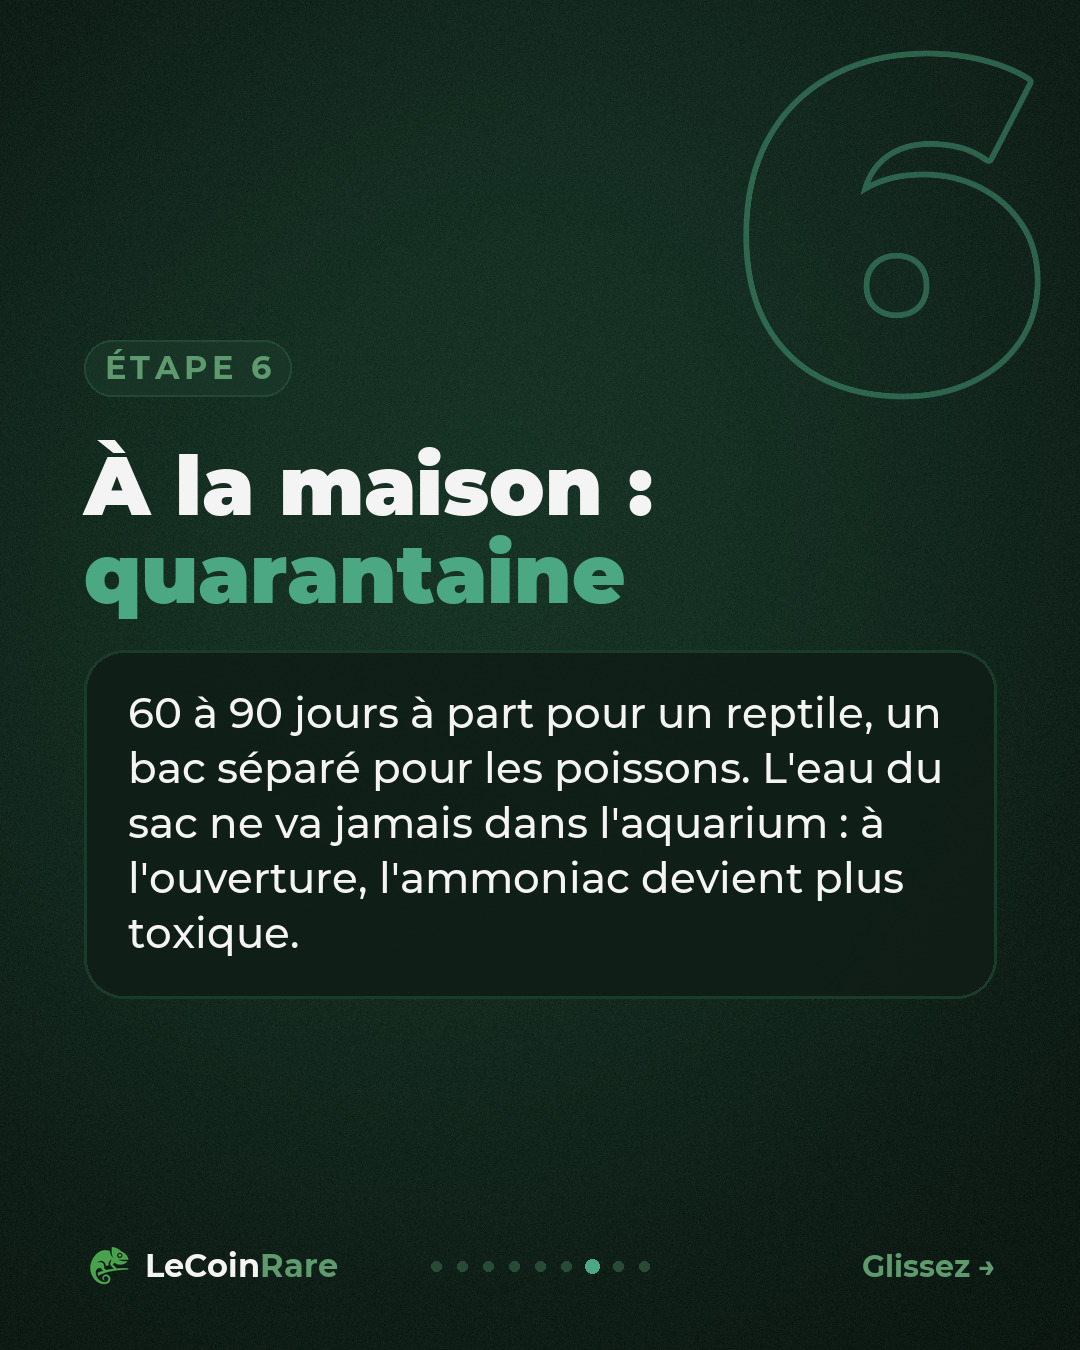
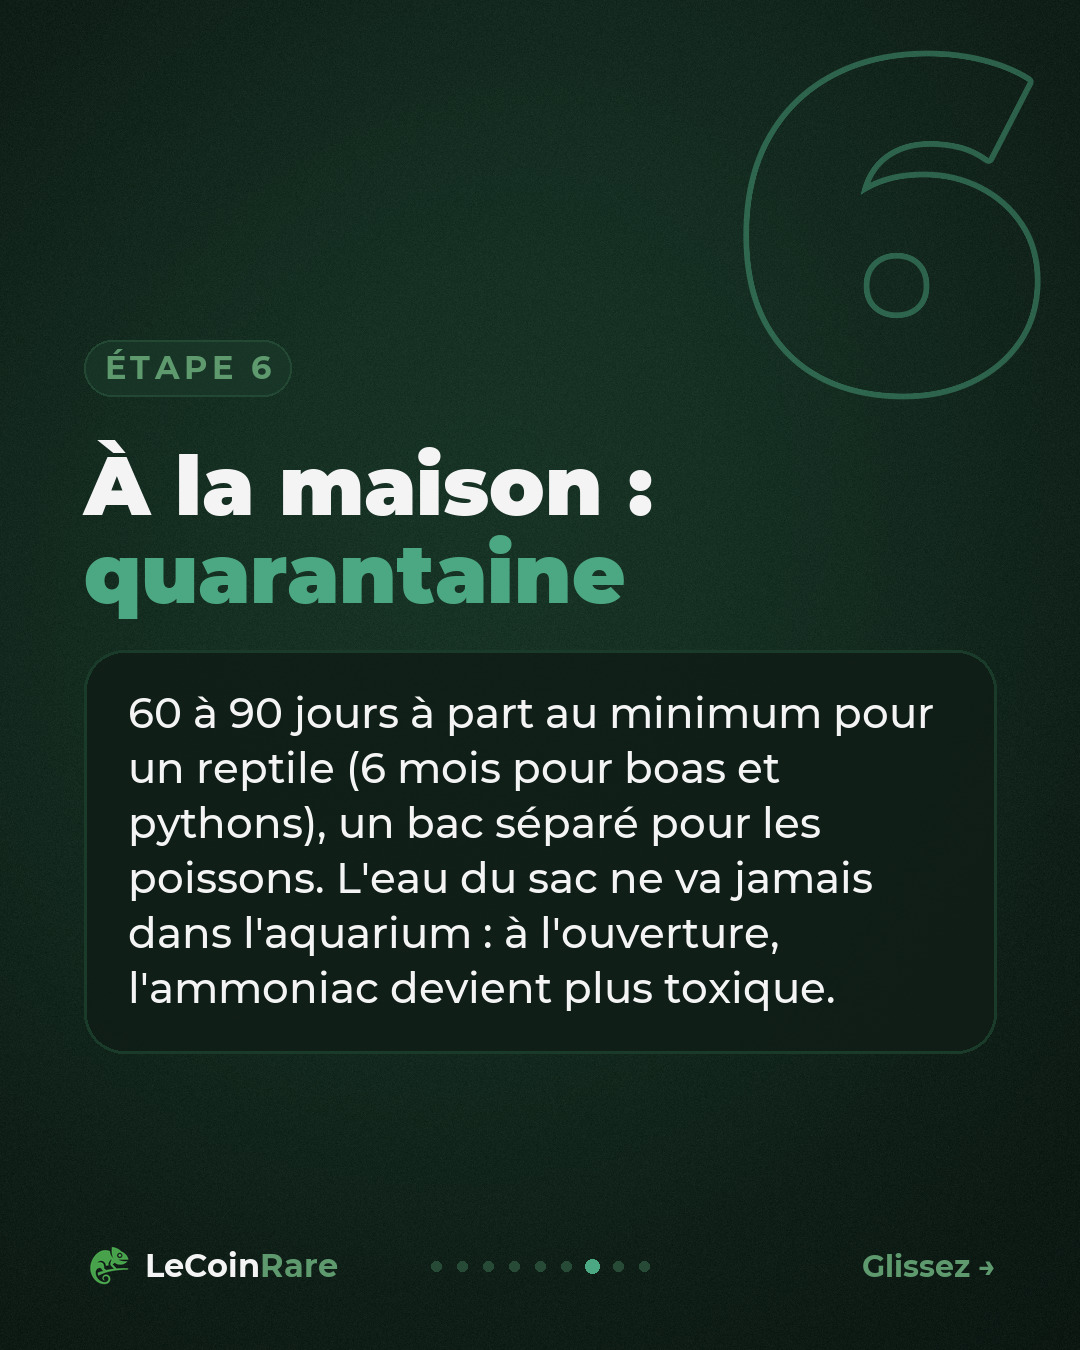
Stories : mar. 3 sondage terrario / aquario / les deux, jeu. 5 quiz quarantaine (relu par le critique) ; carrousel bourse : quarantaine 60 à 90 jours au minimum, 6 mois pour boas et pythons

Changed region(s): [[0.1222, 0.4978, 0.8861, 0.7467]]

diff --git a/generateur/story.py b/generateur/story.py
@@ -27,7 +27,11 @@ TOP, BOTTOM = 400, H - 380  # zone sûre entre la barre de profil et la barre de
 def options(img, items, y, letters=False):
     """Options en boutons « secondaires » du site : carte, bordure verte à 30 %, lettre en vert vif."""
     d = ImageDraw.Draw(img, "RGBA")
-    f = charte.font("bold", 52)
+    place = W - 2 * M - (112 + 40 if letters else 80)  # largeur utile dans le bouton
+    taille = 52
+    while taille > 34 and max(charte.font("bold", taille).getlength(o) for o in items) > place:
+        taille -= 2  # une option longue rétrécit plutôt que de déborder
+    f = charte.font("bold", taille)
     for k, opt in enumerate(items):
         d.rounded_rectangle([M, y, W - M, y + 140], radius=36, fill=charte.a(charte.CARTE, 0.94),
                             outline=charte.a(charte.VERT, 0.6), width=3)
@@ -60,7 +64,7 @@ def story_savoir(img, s):
 
 def story_sondage(img, s):
     y = titre(img, s, "SONDAGE", 92) + 60
-    y = options(img, s["options"][:2], y)
+    y = options(img, s["options"][:4], y)  # le sondage Instagram accepte 4 réponses
     ImageDraw.Draw(img).text((W / 2, y + 30), s.get("hint", "Votez avec le sondage"), font=charte.font("medium", 40),
                              fill=charte.GRIS, anchor="mm")
     return img
